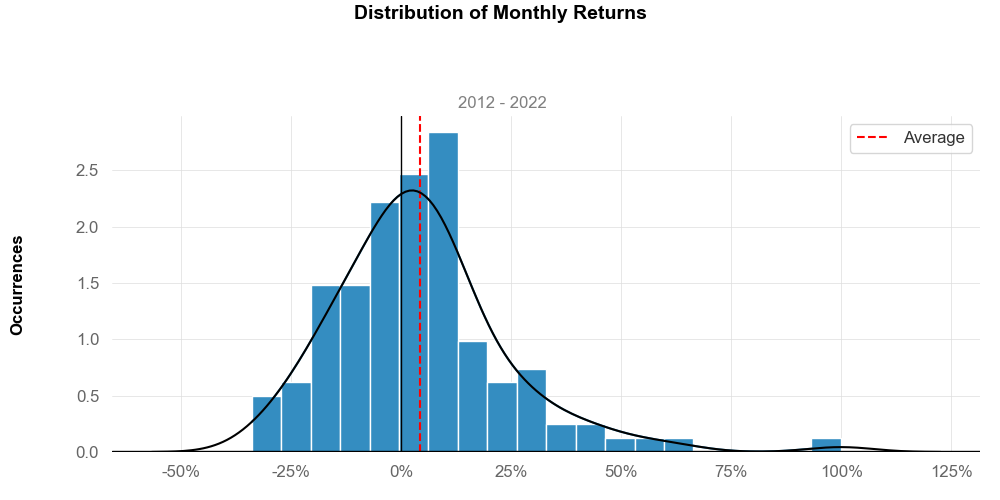
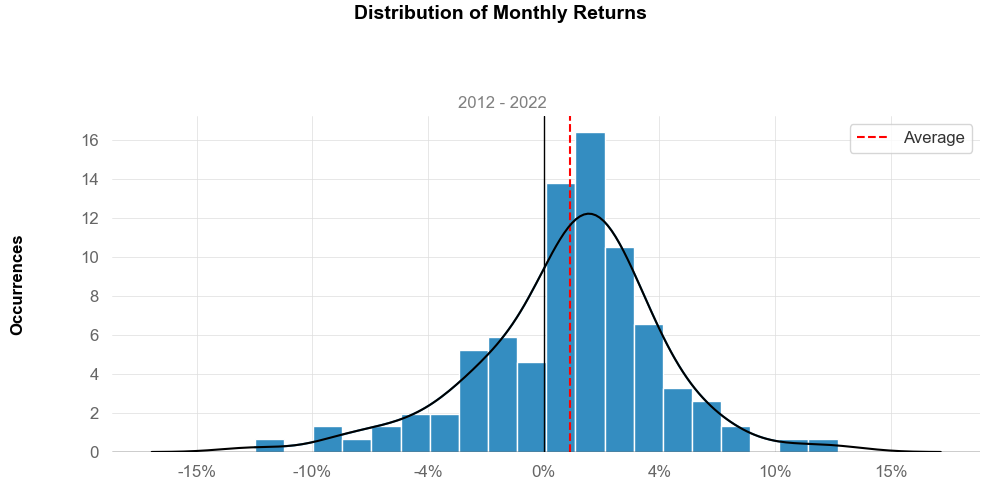
instalação requirements para corrigir erro do app on line

diff --git a/paginas/relatorio_performance.py b/paginas/relatorio_performance.py
@@ -5,18 +5,15 @@ st.set_option('deprecation.showPyplotGlobalUse', False)
 
 
 def relatorio_performance():
-
     qs.extend_pandas()
     st.sidebar.write('Código da Ação')
-    ticker = st.sidebar.text_input('Insira o código de acordo com o site Yahoo Finance.'
-                                   , value='SPY'
-                                   )
+    ticker = st.sidebar.text_input('Insira o código de acordo com o site Yahoo Finance.', value='SPY')
     st.sidebar.write('Período da Análise')
     period = st.sidebar.text_input('Escreva: '
                                    '5y, para 5 anos.',
                                    value='10y'
                                    )
-    returns = qs.utils.download_returns(ticker, period=period)
+    returns = qs.utils.download_returns(ticker, period=period, auto_adjust=True)
 #tentativa de plotagem dos gráficos
     #fig, ax = plt.subplots()
     #sns.heatmap(returns.monthly_returns(), linewidths=1.9, center=0, square=True, annot=True,  vmax=.3, cmap='RdYlGn', fmt='.1f')

diff --git a/paginas/inicio.py b/paginas/inicio.py
@@ -1,15 +1,15 @@
 #importar bibliotecas
 import streamlit as st
-from streamlit_lottie import st_lottie
-import requests
+# from streamlit_lottie import st_lottie
+# import requests
 
 #animacao
-def load_lottieurl(url):
-    r = requests.get(url)
-    if r.status_code !=200:
-        return None
-    return r.json()
-lottie_coding = load_lottieurl('https://assets5.lottiefiles.com/packages/lf20_gdt35llx.json')
+# def load_lottieurl(url):
+#     r = requests.get(url)
+#     if r.status_code !=200:
+#         return None
+#     return r.json()
+# lottie_coding = load_lottieurl('https://assets5.lottiefiles.com/packages/lf20_gdt35llx.json')
 
 #chamar pagina
 def inicio():
@@ -71,5 +71,5 @@ def inicio():
             )
 
         with right_column:
-            st_lottie(lottie_coding, height=600, key='coding')
-
+            # st_lottie(lottie_coding, height=600, key='coding')
+            st.write('Teste')

diff --git a/paginas/prophet.py b/paginas/prophet.py
@@ -11,7 +11,7 @@ def prophet():
     # baixar dados e sidebar
     st.subheader('Previsão de Cotações com PROPHET')
     st.sidebar.header('Escolha a Data e o Ativo')
-    ticker = st.sidebar.text_input('TICKER - Yahoo Finance', value='^BVSP')
+    ticker = st.sidebar.text_input('TICKER - Yahoo Finance', value='aapl ')
     start_date = st.sidebar.date_input('Data de Início', value=pd.datetime(2018, 1, 1))
     end_date = st.sidebar.date_input('Data Final')
 
@@ -75,7 +75,7 @@ def prophet():
     previsao = modelo.predict(futuro)
     st.subheader('Previsão')
     #para mostrar o data frame usar o código abaixo
-    #st.write(previsao[['ds', 'yhat', 'yhat_lower', 'yhat_upper']].tail(n_dias))
+    st.write(previsao[['ds', 'yhat', 'yhat_lower', 'yhat_upper']].tail(n_dias))
 
     # grafico1
     grafico1 = plot_plotly(modelo, previsao)

diff --git a/main.py b/main.py
@@ -42,7 +42,7 @@ pagina = st.sidebar.selectbox("Selecione uma funcionalidade:", pagina)
 
 #pagina com navegation bar
 pagina = option_menu(
-    menu_title= "Menu",
+    menu_title="Menu",
     options=['Início','Relatório Performance', 'Prophet', 'Fronteira Eficiente'],
     menu_icon='cast',
     default_index=0,
